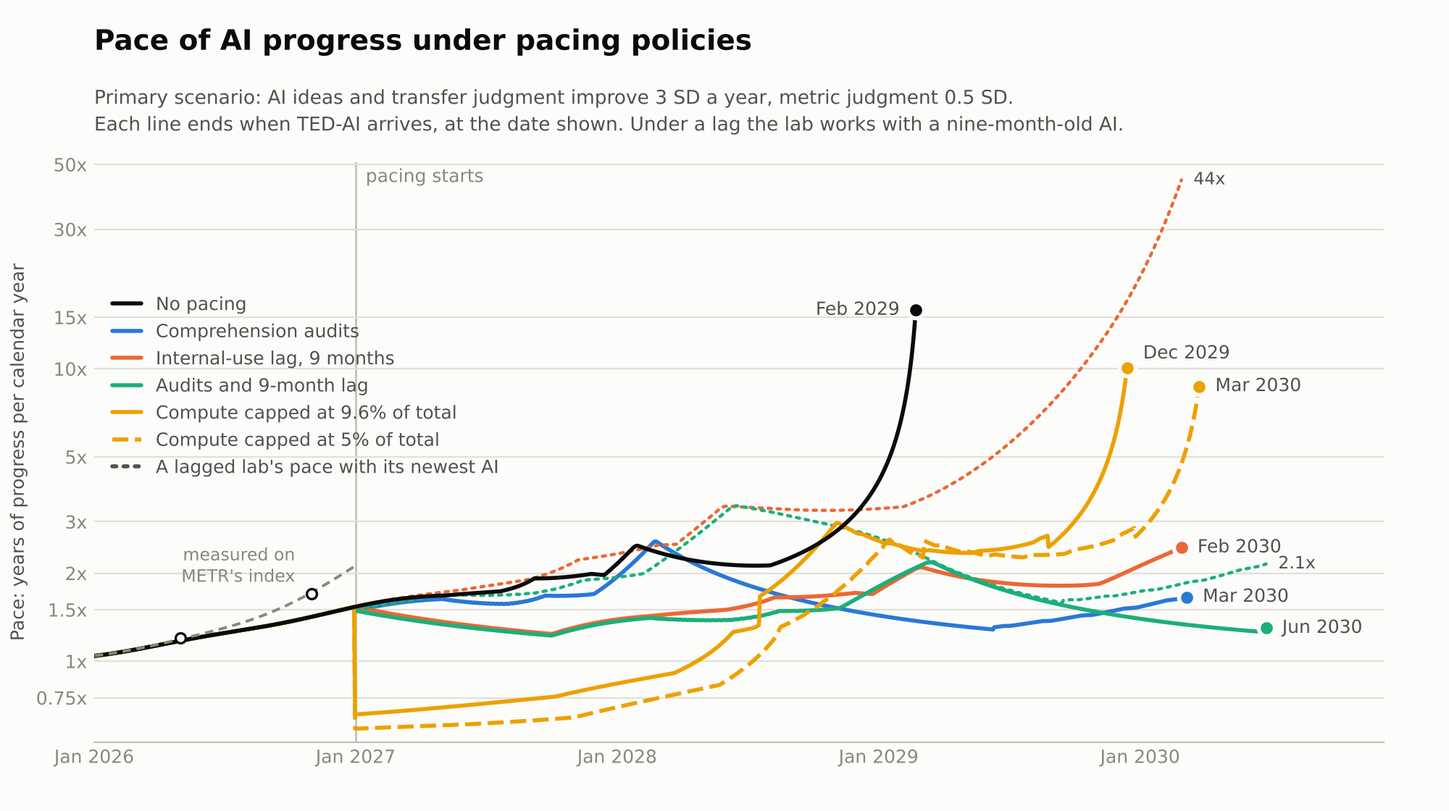
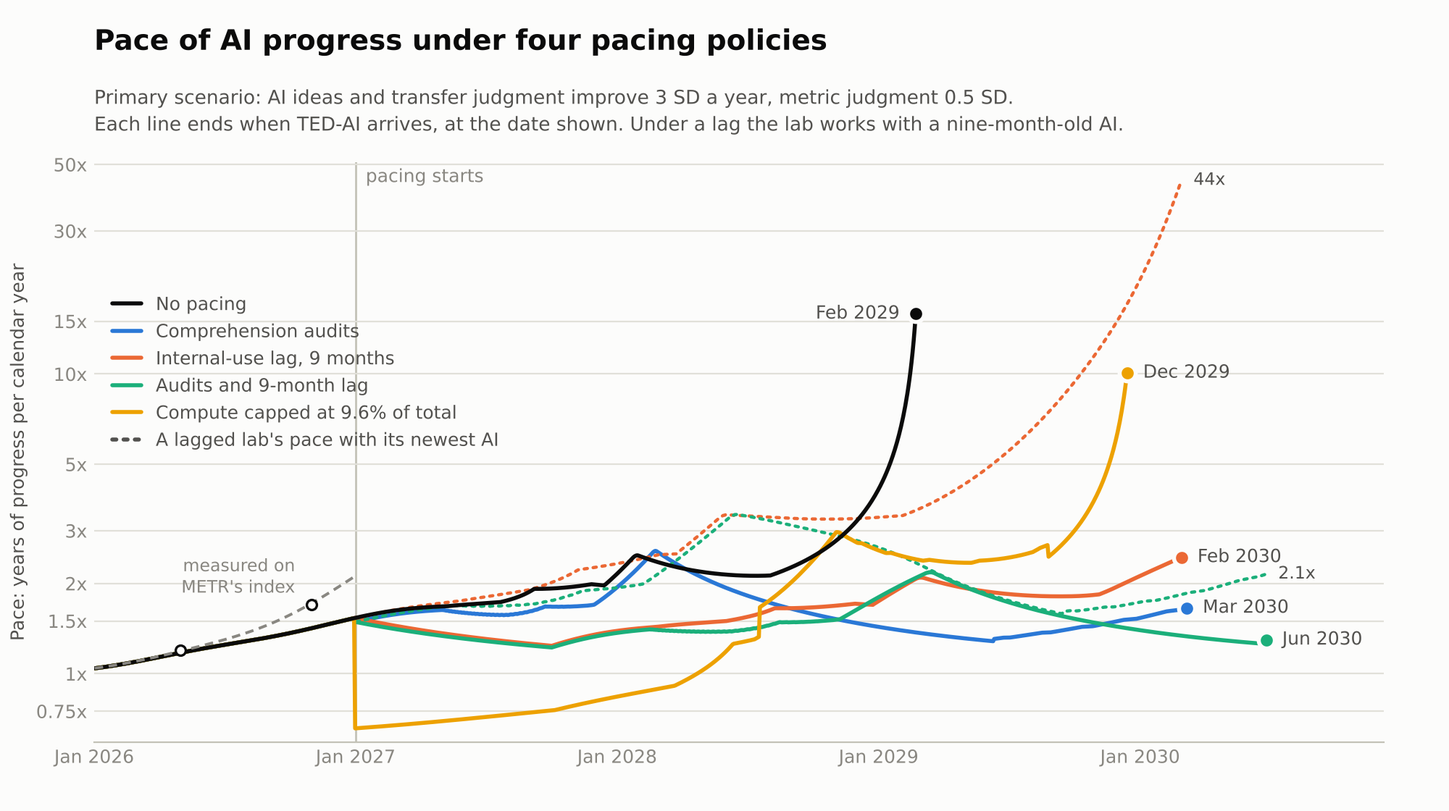
Revert "Add the 5% compute cap to the chain model's pacing policies"
This reverts commit eda6163e86e3904e01dcc9506d8e86498cba2b4f.

diff --git a/pacing-takeoff-model/chain/figure.py b/pacing-takeoff-model/chain/figure.py
@@ -17,7 +17,6 @@ import numpy as np
 from chain_model import (
     CASES,
     COMPUTE_LIMIT,
-    COMPUTE_LIMIT_TIGHT,
     MONTHS,
     PACE_MAY,
     PACE_REF,
@@ -41,10 +40,7 @@ SERIES = (
     ("Internal-use lag, 9 months", "Internal-use lag, 9 months", "#eb6834"),
     ("Comprehension audits + 9-month lag", "Audits and 9-month lag", "#1baf7a"),
     (COMPUTE_LIMIT, "Compute capped at 9.6% of total", "#eda100"),
-    (COMPUTE_LIMIT_TIGHT, "Compute capped at 5% of total", "#eda100"),
 )
-# The two compute caps share a color. The tighter one is dashed.
-DASHED = {COMPUTE_LIMIT_TIGHT: (0, (4, 1.6))}
 START, PACING, TICKS = 2026.0, 2027.0, (1.0, 1.5, 2.0, 3.0, 5.0, 10.0, 15.0)
 OUT = Path(__file__).parent / "results" / "pace.png"
 OUT_MEASURED = Path(__file__).parent / "results" / "measured.png"
@@ -186,7 +182,6 @@ def main() -> None:
             run["pace"][shown],
             color=color,
             lw=2.0,
-            ls=DASHED.get(name, "-"),
             label=label,
             solid_capstyle="round",
             solid_joinstyle="round",
@@ -197,10 +192,7 @@ def main() -> None:
         highest = max(highest, float(run["pace"][shown].max()))
     # End labels sit to the right of each end. The first sits to the left, clear of the lines
     # that end after it.
-    places = {
-        0: dict(xytext=(-8, 0), ha="right", va="center"),
-        4: dict(xytext=(8, 7), ha="left", va="center"),  # clear of the tighter cap's end
-    }
+    places = {0: dict(xytext=(-8, 0), ha="right", va="center")}
     for k, (when, pace, color, ted) in enumerate(ends):
         ax.plot(
             [when], [pace], "o", ms=8, color=color, mec=SURFACE, mew=2.0, zorder=4, clip_on=False
@@ -233,7 +225,7 @@ def main() -> None:
     fig.subplots_adjust(left=0.065, right=0.955, top=0.80, bottom=0.085)
     titles(
         fig,
-        "Pace of AI progress under pacing policies",
+        "Pace of AI progress under four pacing policies",
         "Primary scenario: AI ideas and transfer judgment improve 3 SD a year, metric judgment "
         "0.5 SD.\nEach line ends when TED-AI arrives, at the date shown. Under a lag the lab works "
         "with a nine-month-old AI.",

diff --git a/pacing-takeoff-model/chain/chain_model.py b/pacing-takeoff-model/chain/chain_model.py
@@ -81,11 +81,6 @@ T_LABOR, LABOR_REF = 2026.65, 19.0
 # compute to the same fraction of its schedule.
 COMPUTE_TODAY, COMPUTE_CAP = 0.48, 0.096
 COMPUTE_LIMIT = "R&D compute capped at 9.6% of all compute"
-# The tightest of the three examples: 5% for capabilities under floors of 70% for external
-# inference and 25% for safety. The project's own modeling of this rule adds another 5% for what
-# safety compute does for capabilities, which is the 9.6% case above.
-COMPUTE_CAP_TIGHT = 0.05
-COMPUTE_LIMIT_TIGHT = "R&D compute capped at 5% of all compute"
 # The two milestone levels are the AI Futures Project's, in SD of researcher judgment. In its
 # public code (github.com/AI-Futures-Project, `progress_model/config.py` and `_impl.py`) both
 # are levels of AI research taste.
@@ -169,7 +164,6 @@ POLICIES = (
     Policy("Internal-use lag, 3 months", lag=0.25),
     Policy("Internal-use lag, 9 months", lag=0.75),
     Policy(COMPUTE_LIMIT, compute_share=COMPUTE_CAP / COMPUTE_TODAY),
-    Policy(COMPUTE_LIMIT_TIGHT, compute_share=COMPUTE_CAP_TIGHT / COMPUTE_TODAY),
     Policy("Comprehension audits + 9-month lag", audits=True, lag=0.75),
 )
 
@@ -719,13 +713,11 @@ def pacing_table(p: Params) -> list[str]:
         "Internal-use lag, 9 months",
         "Comprehension audits + 9-month lag",
         COMPUTE_LIMIT,
-        COMPUTE_LIMIT_TIGHT,
     )
     out = [
         "| AI judgment gained per year | TED-AI, no pacing | Comprehension audits | "
-        "9-month lag | Audits and 9-month lag | Compute capped at 9.6% | "
-        "Compute capped at 5% |",
-        "|---|---|---|---|---|---|---|",
+        "9-month lag | Audits and 9-month lag | Compute capped at 9.6% |",
+        "|---|---|---|---|---|---|",
     ]
     for label, rates in CASES:
         q = replace(p, **rates)

diff --git a/spec.md b/spec.md
@@ -124,7 +124,7 @@ Decided 2026-11-12 (PI, in session):
 - **D19 The labs' own usage data enter the pacing model.** Three choices. The rates on fuzzy tasks stay at +1 and +0.5 SD a year: Anthropic's TASTE benchmark has frontier models at chance on judging safety research proposals, which the PI reads as a level below the point of signal and consistent with improvement, so it is recorded as a check on the level and a test to watch and does not change a rate. The share of work that needs a person however short the task starts at 14%, OpenAI's figure for tasks under 15 minutes, and falls as AI judgment on fuzzy tasks rises. The PI holds that there is no fixed ceiling on unsupervised work. The model does not anchor on Google DeepMind's delegation data, because its models were behind the frontier for most of the period they cover; a supervision schedule fitted to its fully delegated pull requests is kept as a sensitivity only. On 2026-11-13 the PI had Anthropic's session success rates added as a third developer's figure for that share, with sensitivity runs on its starting level, its supervision time, how it falls and the audit hours (`pacing-takeoff-model/residue_sensitivity.py`). The same day the PI set the central supervision of that work to 0.5% of its time, from the PI's estimate of half an hour of a person's day for each running session, with a session doing 8 to 12 person-days of work in a day. No developer reports that figure. Three benchmarks scored against human judgment (a rerun of TASTE, RedwoodBench and LMCA) were read from chart images the PI supplied; their pages were not fetched and are not source records. The five reports behind this (Google DeepMind's Gemini 4 Argon safety report, the TASTE page, Ramez Naam's essay, and Anthropic's "When AI builds itself" and "How employment is changing at Anthropic") are not yet source records here.
 - **D20 The pacing model's two task classes are named supervisable and HTS fuzzy.** Decided by the PI on 2026-11-13. The slow class is the hard-to-supervise fuzzy tasks of Bowkis et al., HTS fuzzy for short. The fast class is everything else and is called supervisable, because it is defined by people being able to judge the work. It holds that paper's crisp tasks and the fuzzy tasks people judge reliably. The earlier labels, crisp and fuzzy, made benchmarks scored against human judgment look like evidence on the wrong class. Keys, parameter names and result file names in the model's code use the same two names. They kept the earlier labels for one day and were renamed on the PI's instruction before the next rerun; the one saved file that held an old key, a results meta file, was migrated.
 - **D21 Supervisable work has a weight of 80% in the pacing model.** Decided by the PI on 2026-11-13. It was 65%, the importance-based anchor. No source measures the weight. The three anchors give 60% to 84% and separate well-defined work from the rest, which is wider than the HTS fuzzy class, so they are a floor. The PI moved the central value after three arguments that point above them: Bowkis et al. say fuzzy tasks are more prevalent in alignment research than in capabilities research, benchmarks scored against human judgment rise with general capability, and Dwarkesh Patel's essay of 2026-11-13 argues that AI research has verifiable proxies for its main kinds of work. The model is also run at 50%, 65% and 90%. Patel's essay is not yet a source record here.
-- **D22 A standalone chain model sits beside the pacing models.** Directed by the PI on 2026-11-15. It lives in `pacing-takeoff-model/chain/`, a self-contained folder that can be shared on its own. It replaces the weight of supervisable work (D21) and the substitution between the classes with a mechanism: experiments at scale limited by compute, small experiments behind each one, and two links, transfer and validity, between a small-scale result and real value. People supply both links for the experiments they have time to judge and the AI supplies its own for the rest. The values of the links, the limit on what people can vouch for and the share of audit time that counts as judging are judgments with no measurement behind them. PI decisions: validity of work left to the AI is 0.05 against people's 0.8, lowered from the first draft's 0.3 (2026-11-15). The AI's transfer and metric judgment improve with progress, as its ideas do; a reading in which they improve with calendar time was built and removed, and no limit is put on how fast they improve (2026-11-16). There is no ceiling on ideas (2026-11-15). A compute limit holds a lab to a share of baseline and covers experiments at scale, small experiments, AI labor and training (2026-11-16). The share in the tables is a cap of 9.6% of all compute against 48% today, a fifth of baseline, from the second tightest example in the AI Futures Project's "How to Pace the US Frontier"; it replaced a third of baseline (2026-11-16). A cap of 5%, the tightest example in the same post, is run beside it (2026-11-17). How fast research gets harder is an input, stated per year of software progress, and the milestone levels are computed from the AI Futures Project's percentile and gap parameters (2026-11-16). AI labor is fitted to Anthropic's 19 agent hours per human work-hour in its research organizations in late August 2026, in place of OpenAI's trend, and 22% of researcher time goes to managing agents, from Anthropic's share of model researchers' agent sessions (2026-11-16). AI labor per researcher has no cap; the PI expects the ratio to keep climbing as AI takes over research. A lab runs the amount of its AI labor that gives the most research, with or without audits. The primary scenario is ideas and transfer judgment at +3 SD a year and metric judgment at +0.5 SD (2026-11-16). Under comprehension audits a lab may deploy a gain only as far as its people can vouch for it, which is up to what its best researcher could have proposed; an audit that takes hours only is kept as a sensitivity (2026-11-16). There is one audit standard; light and strict audits are dropped as not materially different (2026-11-16). The two measured paces, 1.2 times in May 2026 and 1.7 times in November 2026, are fitted as the pace on the lab's metrics and not as real progress, because METR's index is built from benchmarks and the model holds that metrics run ahead of real value (2026-11-16). The model does not replace Model A, Model B or the simple model, and the briefing does not yet report its results.
+- **D22 A standalone chain model sits beside the pacing models.** Directed by the PI on 2026-11-15. It lives in `pacing-takeoff-model/chain/`, a self-contained folder that can be shared on its own. It replaces the weight of supervisable work (D21) and the substitution between the classes with a mechanism: experiments at scale limited by compute, small experiments behind each one, and two links, transfer and validity, between a small-scale result and real value. People supply both links for the experiments they have time to judge and the AI supplies its own for the rest. The values of the links, the limit on what people can vouch for and the share of audit time that counts as judging are judgments with no measurement behind them. PI decisions: validity of work left to the AI is 0.05 against people's 0.8, lowered from the first draft's 0.3 (2026-11-15). The AI's transfer and metric judgment improve with progress, as its ideas do; a reading in which they improve with calendar time was built and removed, and no limit is put on how fast they improve (2026-11-16). There is no ceiling on ideas (2026-11-15). A compute limit holds a lab to a share of baseline and covers experiments at scale, small experiments, AI labor and training (2026-11-16). The share in the tables is a cap of 9.6% of all compute against 48% today, a fifth of baseline, from the second tightest example in the AI Futures Project's "How to Pace the US Frontier"; it replaced a third of baseline (2026-11-16). How fast research gets harder is an input, stated per year of software progress, and the milestone levels are computed from the AI Futures Project's percentile and gap parameters (2026-11-16). AI labor is fitted to Anthropic's 19 agent hours per human work-hour in its research organizations in late August 2026, in place of OpenAI's trend, and 22% of researcher time goes to managing agents, from Anthropic's share of model researchers' agent sessions (2026-11-16). AI labor per researcher has no cap; the PI expects the ratio to keep climbing as AI takes over research. A lab runs the amount of its AI labor that gives the most research, with or without audits. The primary scenario is ideas and transfer judgment at +3 SD a year and metric judgment at +0.5 SD (2026-11-16). Under comprehension audits a lab may deploy a gain only as far as its people can vouch for it, which is up to what its best researcher could have proposed; an audit that takes hours only is kept as a sensitivity (2026-11-16). There is one audit standard; light and strict audits are dropped as not materially different (2026-11-16). The two measured paces, 1.2 times in May 2026 and 1.7 times in November 2026, are fitted as the pace on the lab's metrics and not as real progress, because METR's index is built from benchmarks and the model holds that metrics run ahead of real value (2026-11-16). The model does not replace Model A, Model B or the simple model, and the briefing does not yet report its results.
 
 Taken as defaults by the build, for the PI to confirm or change:
 

diff --git a/pacing-takeoff-model/chain/README.md b/pacing-takeoff-model/chain/README.md
@@ -62,7 +62,7 @@ kept  = transfer * validity, each measured against people's
 
 - **Comprehension audits.** A lab may deploy only what its own people understand. That takes researchers' hours for every deployed change: 14% of their time today, growing with the number of changes. It also has a reach. People cannot understand a gain past what they can vouch for, so an audited lab does not deploy that part.
 - **Internal-use lag.** A lab works with the AI it had nine months ago.
-- **Compute cap.** Capabilities work may use at most 9.6% of a lab's compute. That is a fifth of what it otherwise would use for experiments, for running AI labor and for training. A tighter cap of 5%, about a tenth, is run beside it.
+- **Compute cap.** Capabilities work may use at most 9.6% of a lab's compute. That is a fifth of what it otherwise would use for experiments, for running AI labor and for training.
 
 Audits and the lag are also run together.
 
@@ -139,21 +139,21 @@ The two 2028 rows look different because the lab has two ways of working. It can
 
 ## What pacing does
 
-![Pace of AI progress in the primary scenario under each pacing policy](results/pace.png)
+![Pace of AI progress in the primary scenario under four pacing policies](results/pace.png)
 
-The figure is the primary scenario. Each line is the pace under one policy and ends when TED-AI arrives. The two open circles are the paces measured on METR's index, and the dashed line through them is the model's pace on metrics, to which they are fitted. The real pace runs below it. A dotted line is the pace a lagged lab would have at once with its newest AI. The two compute caps share a color, and the tighter one is dashed.
+The figure is the primary scenario. Each line is the pace under one policy and ends when TED-AI arrives. The two open circles are the paces measured on METR's index, and the dashed line through them is the model's pace on metrics, to which they are fitted. The real pace runs below it. A dotted line is the pace a lagged lab would have at once with its newest AI.
 
 Delay to TED-AI:
 
-| AI judgment gained per year of progress | Comprehension audits | 9-month lag | Audits and 9-month lag | Compute capped at 9.6% | Compute capped at 5% |
-|---|---|---|---|---|---|
-| Ideas, transfer and metrics all +3 SD | +0 mo | +11 mo | +11 mo | +7 mo | +10 mo |
-| Ideas and transfer +3, metrics +1 | +3 mo | +10 mo | +11 mo | +11 mo | +14 mo |
-| **Ideas and transfer +3, metrics +0.5 (primary)** | **+12 mo** | **+12 mo** | **+16 mo** | **+10 mo** | **+13 mo** |
-| Ideas and transfer +2.1, metrics +0.5 | +11 mo | +12 mo | +16 mo | +11 mo | +15 mo |
-| Ideas +3, transfer and metrics +1 | +4 mo | +10 mo | +11 mo | +12 mo | +16 mo |
-| Ideas +3, transfer +1, metrics +0.5 | +12 mo | +12 mo | +17 mo | +11 mo | +15 mo |
-| Ideas +3, transfer and metrics +0.5 | +13 mo | +11 mo | +17 mo | +12 mo | +16 mo |
+| AI judgment gained per year of progress | Comprehension audits | 9-month lag | Audits and 9-month lag | Compute capped at 9.6% |
+|---|---|---|---|---|
+| Ideas, transfer and metrics all +3 SD | +0 mo | +11 mo | +11 mo | +7 mo |
+| Ideas and transfer +3, metrics +1 | +3 mo | +10 mo | +11 mo | +11 mo |
+| **Ideas and transfer +3, metrics +0.5 (primary)** | **+12 mo** | **+12 mo** | **+16 mo** | **+10 mo** |
+| Ideas and transfer +2.1, metrics +0.5 | +11 mo | +12 mo | +16 mo | +11 mo |
+| Ideas +3, transfer and metrics +1 | +4 mo | +10 mo | +11 mo | +12 mo |
+| Ideas +3, transfer +1, metrics +0.5 | +12 mo | +12 mo | +17 mo | +11 mo |
+| Ideas +3, transfer and metrics +0.5 | +13 mo | +11 mo | +17 mo | +12 mo |
 
 **Comprehension audits**
 
@@ -168,10 +168,9 @@ Delay to TED-AI:
 - **A 9-month lag delays TED-AI by 10 to 12 months in every scenario.** It sets back the AI the lab may use, and so the judgment that drives the loop.
 - **A lag leaves an overhang.** The milestones are about the newest AI, which a lagged lab has and may not use for research. The dotted lines in the figure are the pace the lab would have at once with that AI. Under the 9-month lag in the primary scenario it is 3.3 times in January 2029 against 1.8 in use, and 44 times against 2.4 when TED-AI arrives. With audits as well it is 2.1 times against 1.3 at that point, because an audit holds the newest AI's gains to what people can vouch for too. These are paces at one moment and not a path, and they are not in the results file.
 - **Audits and the lag together delay it by 11 to 17 months.** That is less than the two delays added up. In the primary scenario the two together give 16 months, against 12 and 12 apart, and the pace ends at 1.3 times.
-- **The compute cap delays it by 7 to 12 months, once, and the tighter cap by 10 to 16.** Training waits a year and a half for its allowance to catch up with what it has already used, and research runs on a fifth of the compute from then on. In the primary scenario the pace drops to 0.7 times when the cap starts and is back above 1 in April 2028. A cut in research buys a fixed delay because difficulty is exponential: a lab with half the research ends up one year of software progress behind and stays there.
+- **The compute cap delays it by 7 to 12 months, once.** Training waits a year and a half for its allowance to catch up with what it has already used, and research runs on a fifth of the compute from then on. In the primary scenario the pace drops to 0.7 times when the cap starts and is back above 1 in April 2028. A cut in research buys a fixed delay because difficulty is exponential: a lab with half the research ends up one year of software progress behind and stays there.
 - **The cap is the AI Futures Project's.** A chart in its ["How to Pace the US Frontier"](https://blog.aifutures.org/p/how-to-pace-the-us-frontier) (August 2026) gives three examples of compute rules. It estimates capabilities compute at 48% of a company's compute today. Under a floor of 90% for external inference it is 9.6%, the second tightest of the three, and the model holds research compute to the same fraction of its schedule, 9.6/48. The figures were read from the chart.
-- **The tighter cap is the same chart's tightest example.** It leaves capabilities 5% of compute under floors of 70% for external inference and 25% for safety. The project's own modeling of that rule counts another 5% for what safety compute does for capabilities, which is the 9.6% case, so the 5% cap here is tighter than the rule as the project models it.
-- **Other rules.** In the primary scenario the chart's loosest example, 12.5% under a safety floor of 75%, delays TED-AI by 8 months. A cut to a third of baseline delays it by 7. If the base is the 62% that the project's input series gives for experiments, training and running AI researchers in 2026, a cap of 9.6% delays it by 11. Those runs are not in the results file.
+- **Other rules from the same chart.** Its tightest example, 5% under floors of 70% for inference and 25% for safety, delays TED-AI by 13 months in the primary scenario. Its loosest, 12.5% under a safety floor of 75%, delays it by 8. A cut to a third of baseline delays it by 7. If the base is the 62% that the project's input series gives for experiments, training and running AI researchers in 2026, a cap of 9.6% delays it by 11. Those runs are not in the results file.
 
 ## How fast research gets harder
 

diff --git a/pacing-takeoff-model/chain/results/tables.md b/pacing-takeoff-model/chain/results/tables.md
@@ -20,15 +20,15 @@ SAR, the superhuman AI researcher, and TED-AI are the AI Futures Project's miles
 
 ## Delay to TED-AI
 
-| AI judgment gained per year | TED-AI, no pacing | Comprehension audits | 9-month lag | Audits and 9-month lag | Compute capped at 9.6% | Compute capped at 5% |
-|---|---|---|---|---|---|---|
-| Ideas, transfer and metrics all +3 SD a year | Jun 2027 | +0 mo | +11 mo | +11 mo | +7 mo | +10 mo |
-| Ideas and transfer +3, metrics +1 | Feb 2028 | +3 mo | +10 mo | +11 mo | +11 mo | +14 mo |
-| Ideas and transfer +3, metrics +0.5 | Feb 2029 | +12 mo | +12 mo | +16 mo | +10 mo | +13 mo |
-| Ideas and transfer +2.1, metrics +0.5 | Sep 2029 | +11 mo | +12 mo | +16 mo | +11 mo | +15 mo |
-| Ideas +3, transfer and metrics +1 | Jun 2028 | +4 mo | +10 mo | +11 mo | +12 mo | +16 mo |
-| Ideas +3, transfer +1, metrics +0.5 | Jun 2029 | +12 mo | +12 mo | +17 mo | +11 mo | +15 mo |
-| Ideas +3, transfer and metrics +0.5 | Feb 2030 | +13 mo | +11 mo | +17 mo | +12 mo | +16 mo |
+| AI judgment gained per year | TED-AI, no pacing | Comprehension audits | 9-month lag | Audits and 9-month lag | Compute capped at 9.6% |
+|---|---|---|---|---|---|
+| Ideas, transfer and metrics all +3 SD a year | Jun 2027 | +0 mo | +11 mo | +11 mo | +7 mo |
+| Ideas and transfer +3, metrics +1 | Feb 2028 | +3 mo | +10 mo | +11 mo | +11 mo |
+| Ideas and transfer +3, metrics +0.5 | Feb 2029 | +12 mo | +12 mo | +16 mo | +10 mo |
+| Ideas and transfer +2.1, metrics +0.5 | Sep 2029 | +11 mo | +12 mo | +16 mo | +11 mo |
+| Ideas +3, transfer and metrics +1 | Jun 2028 | +4 mo | +10 mo | +11 mo | +12 mo |
+| Ideas +3, transfer +1, metrics +0.5 | Jun 2029 | +12 mo | +12 mo | +17 mo | +11 mo |
+| Ideas +3, transfer and metrics +0.5 | Feb 2030 | +13 mo | +11 mo | +17 mo | +12 mo |
 
 ## The path with no pacing: ideas and transfer +3, metrics +0.5
 
@@ -104,7 +104,6 @@ Above some difficulty the model cannot reach the pace measured in November 2026.
 | Internal-use lag, 3 months | Sep 2027 | +3 mo | Nov 2027 | +5 mo |
 | Internal-use lag, 9 months | Nov 2027 | +6 mo | May 2028 | +11 mo |
 | R&D compute capped at 9.6% of all compute | Dec 2027 | +7 mo | Jan 2028 | +7 mo |
-| R&D compute capped at 5% of all compute | Mar 2028 | +9 mo | Mar 2028 | +10 mo |
 | Comprehension audits + 9-month lag | Nov 2027 | +6 mo | May 2028 | +11 mo |
 
 ### Ideas and transfer +3, metrics +1
@@ -116,7 +115,6 @@ Above some difficulty the model cannot reach the pace measured in November 2026.
 | Internal-use lag, 3 months | Jun 2028 | +4 mo | Jul 2028 | +5 mo |
 | Internal-use lag, 9 months | Oct 2028 | +8 mo | Dec 2028 | +10 mo |
 | R&D compute capped at 9.6% of all compute | Dec 2028 | +11 mo | Jan 2029 | +11 mo |
-| R&D compute capped at 5% of all compute | Mar 2029 | +14 mo | Apr 2029 | +14 mo |
 | Comprehension audits + 9-month lag | Oct 2028 | +9 mo | Jan 2029 | +11 mo |
 
 ### Ideas and transfer +3, metrics +0.5
@@ -128,7 +126,6 @@ Above some difficulty the model cannot reach the pace measured in November 2026.
 | Internal-use lag, 3 months | Apr 2029 | +4 mo | Aug 2029 | +6 mo |
 | Internal-use lag, 9 months | Sep 2029 | +8 mo | Feb 2030 | +12 mo |
 | R&D compute capped at 9.6% of all compute | Oct 2029 | +9 mo | Dec 2029 | +10 mo |
-| R&D compute capped at 5% of all compute | Jan 2030 | +12 mo | Mar 2030 | +13 mo |
 | Comprehension audits + 9-month lag | Oct 2029 | +10 mo | Jun 2030 | +16 mo |
 
 ### Ideas and transfer +2.1, metrics +0.5
@@ -140,7 +137,6 @@ Above some difficulty the model cannot reach the pace measured in November 2026.
 | Internal-use lag, 3 months | Nov 2029 | +4 mo | Feb 2030 | +6 mo |
 | Internal-use lag, 9 months | Apr 2030 | +8 mo | Sep 2030 | +12 mo |
 | R&D compute capped at 9.6% of all compute | Jun 2030 | +11 mo | Aug 2030 | +11 mo |
-| R&D compute capped at 5% of all compute | Oct 2030 | +14 mo | Dec 2030 | +15 mo |
 | Comprehension audits + 9-month lag | May 2030 | +10 mo | Jan 2031 | +16 mo |
 
 ### Ideas +3, transfer and metrics +1
@@ -152,7 +148,6 @@ Above some difficulty the model cannot reach the pace measured in November 2026.
 | Internal-use lag, 3 months | Oct 2028 | +4 mo | Nov 2028 | +5 mo |
 | Internal-use lag, 9 months | Jan 2029 | +7 mo | Apr 2029 | +10 mo |
 | R&D compute capped at 9.6% of all compute | Jun 2029 | +12 mo | Jun 2029 | +12 mo |
-| R&D compute capped at 5% of all compute | Oct 2029 | +16 mo | Oct 2029 | +16 mo |
 | Comprehension audits + 9-month lag | Feb 2029 | +8 mo | May 2029 | +11 mo |
 
 ### Ideas +3, transfer +1, metrics +0.5
@@ -164,7 +159,6 @@ Above some difficulty the model cannot reach the pace measured in November 2026.
 | Internal-use lag, 3 months | Aug 2029 | +4 mo | Nov 2029 | +6 mo |
 | Internal-use lag, 9 months | Jan 2030 | +8 mo | Jun 2030 | +12 mo |
 | R&D compute capped at 9.6% of all compute | Apr 2030 | +11 mo | May 2030 | +11 mo |
-| R&D compute capped at 5% of all compute | Jul 2030 | +15 mo | Aug 2030 | +15 mo |
 | Comprehension audits + 9-month lag | Mar 2030 | +11 mo | Nov 2030 | +17 mo |
 
 ### Ideas +3, transfer and metrics +0.5
@@ -176,6 +170,5 @@ Above some difficulty the model cannot reach the pace measured in November 2026.
 | Internal-use lag, 3 months | May 2030 | +4 mo | Aug 2030 | +5 mo |
 | Internal-use lag, 9 months | Sep 2030 | +8 mo | Jan 2031 | +11 mo |
 | R&D compute capped at 9.6% of all compute | Jan 2031 | +11 mo | Feb 2031 | +12 mo |
-| R&D compute capped at 5% of all compute | Apr 2031 | +15 mo | Jun 2031 | +16 mo |
 | Comprehension audits + 9-month lag | Jan 2031 | +12 mo | Aug 2031 | +17 mo |
 
